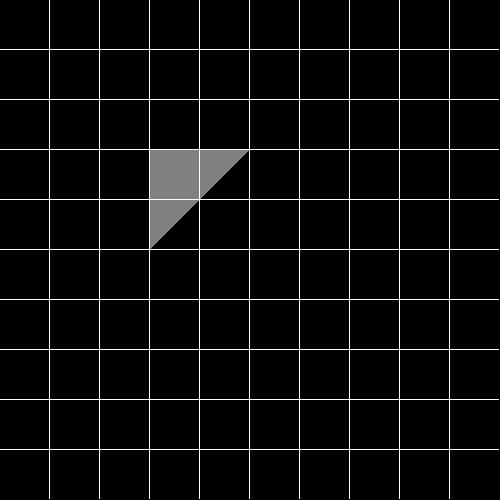
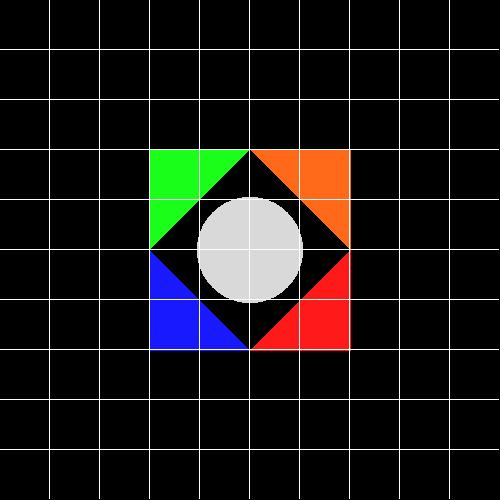
update

Changed region(s): [[0.3, 0.3, 0.72, 0.72]]

diff --git a/src/unitTests/RenderTest.java b/src/unitTests/RenderTest.java
@@ -17,16 +17,16 @@ public class RenderTest {
 		scene.set_background(new Color(0, 0, 0));
 		Geometries geometries = new Geometries();
 		scene.set_geometries(geometries);
-		scene.set_ambientLight(new AmbientLight(new Color (0,0,0),1));
-		//geometries.addGeometry(new Sphere(50, new Point3D(0, 0, 150),new Color(0,255,0)));
+		scene.set_ambientLight(new AmbientLight(new Color (255,255,255),0.1));
+		geometries.addGeometry(new Sphere(50, new Point3D(0, 0, 150),new Color(192,192,192)));
 		
-		//geometries.addGeometry(new Triangle(new Point3D(-100, 0, 149),new Point3D(  0,  -100, 149),new Point3D(-100, -100, 149),new Color(128,128,128)));
+		geometries.addGeometry(new Triangle(new Point3D(-100, 0, 149),new Point3D(  0,  -100, 149),new Point3D(-100, -100, 149),new Color(0,255,0)));
 		
-		//geometries.addGeometry(new Triangle(new Point3D( 100, 0, 149),new Point3D(  0, -100, 149),new Point3D( 100,-100, 149),new Color(255,0,0)));
+		geometries.addGeometry(new Triangle(new Point3D( 100, 0, 149),new Point3D(  0, -100, 149),new Point3D( 100,-100, 149),new Color(255,80,0)));
 		
-		//geometries.addGeometry(new Triangle(new Point3D( -100, 0, 149),new Point3D(  0, 100, 149),new Point3D( -100, 100, 149),new Color(0,0,255)));
+		geometries.addGeometry(new Triangle(new Point3D( -100, 0, 149),new Point3D(  0, 100, 149),new Point3D( -100, 100, 149),new Color(0,0,255)));
 		
-		//geometries.addGeometry(new Triangle(new Point3D( 100, 0, 149),new Point3D(  0, 100, 149),new Point3D( 100, 100, 149),new Color(0,0,128)));
+		geometries.addGeometry(new Triangle(new Point3D( 100, 0, 149),new Point3D(  0, 100, 149),new Point3D( 100, 100, 149),new Color(255,0,0)));
 		
 		ImageWriter imageWriter = new ImageWriter("test0", 500, 500, 500, 500);
 		Render render = new Render(imageWriter, scene);

diff --git a/src/primitives/Color.java b/src/primitives/Color.java
@@ -92,9 +92,9 @@ public class Color {
 	public Color scale(double exp) {
 		if (exp < 0 || exp > 1)
 			throw new ArithmeticException("Scaling color with a value out of 0 to 1 range");
-		_red /= exp;
-		_green /= exp;
-		_blue /= exp;
+		_red *= exp;
+		_green *= exp;
+		_blue *= exp;
 		return new Color(_red,_green,_blue);
 	}
 
@@ -102,9 +102,9 @@ public class Color {
 	public Color reduce(double exp) {
 		if (exp < 0 || exp > 1)
 			throw new ArithmeticException("Reducing color with a value smaller than 1");
-		_red *= exp;
-		_green *= exp;
-		_blue *= exp;
+		_red /= exp;
+		_green /= exp;
+		_blue /= exp;
 		return new Color(_red,_green,_blue);
 		
 	}

diff --git a/src/primitives/Material.java b/src/primitives/Material.java
@@ -1,0 +1,26 @@
+package primitives;
+
+public class Material {
+	double _Kd;
+	double _Ks;
+	int nShininess;
+	public double get_Kd() {
+		return _Kd;
+	}
+	public double get_Ks() {
+		return _Ks;
+	}
+	public int getnShininess() {
+		return nShininess;
+	}
+	public void set_Kd(double _Kd) {
+		this._Kd = _Kd;
+	}
+	public void set_Ks(double _Ks) {
+		this._Ks = _Ks;
+	}
+	public void setnShininess(int nShininess) {
+		this.nShininess = nShininess;
+	}
+	
+}

diff --git a/src/geometries/Plane.java b/src/geometries/Plane.java
@@ -37,10 +37,6 @@ public class Plane extends Geometry {
 		return _p;
 	}
 
-	@Override
-	public Vector getNormal(Point3D point) {
-		return _normal;
-	}
 	
 	
 	/***************** Administration  ********************/
@@ -68,6 +64,12 @@ public class Plane extends Geometry {
 		}
 			
 	}
+	
+	@Override
+	public Vector getNormal(Point3D point) {
+		return _normal;
+	}
+	
 	
 }
 	  

diff --git a/src/geometries/Geometry.java b/src/geometries/Geometry.java
@@ -8,7 +8,7 @@ import primitives.Vector;
 		Map<Geometry, List<Point3D>> findintersection = new HashMap<Geometry, List<Point3D>>();
 		
 		protected Color  _emmission;
-		
+		protected Material _material;
 		/********** Constructors ***********/
 		
 		// Default constructor

diff --git a/src/elements/AmbientLight.java b/src/elements/AmbientLight.java
@@ -10,8 +10,8 @@ public class AmbientLight {
 	
 	
 	public AmbientLight(Color color, double ka) {
-		_color = color;
-		_Ka = ka;
+		_color = new Color (color);
+		_Ka =  ka;
 		_intensity = new Color(_color).scale(_Ka);
 	}
 

diff --git a/src/geometries/Geometries.java b/src/geometries/Geometries.java
@@ -24,7 +24,6 @@ public class Geometries extends Geometry {
 
 	@Override
 	public Vector getNormal(Point3D point) {
-		// TODO Auto-generated method stub
 		return null;
 	}
 

diff --git a/src/renderer/Render.java b/src/renderer/Render.java
@@ -70,7 +70,7 @@ public class Render {
 
 				}
 			}
-			System.err.println(i + "/" + _imageWriter.getNx());
+			
 		}
 	}
 

diff --git a/src/elements/Light.java b/src/elements/Light.java
@@ -1,0 +1,5 @@
+package elements;
+
+public abstract class Light {
+
+}
